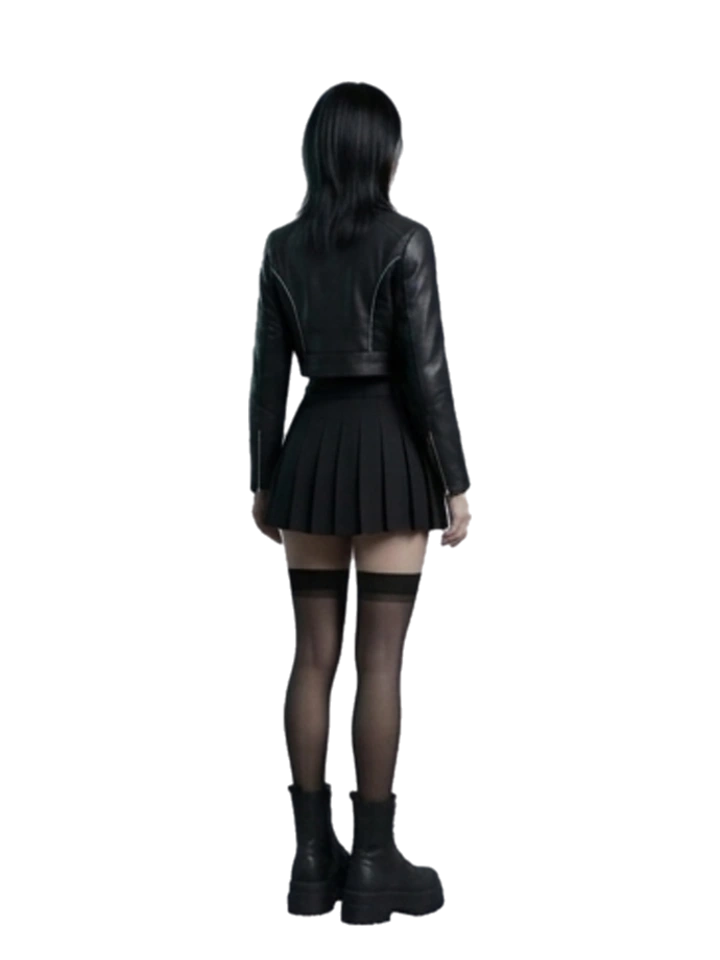
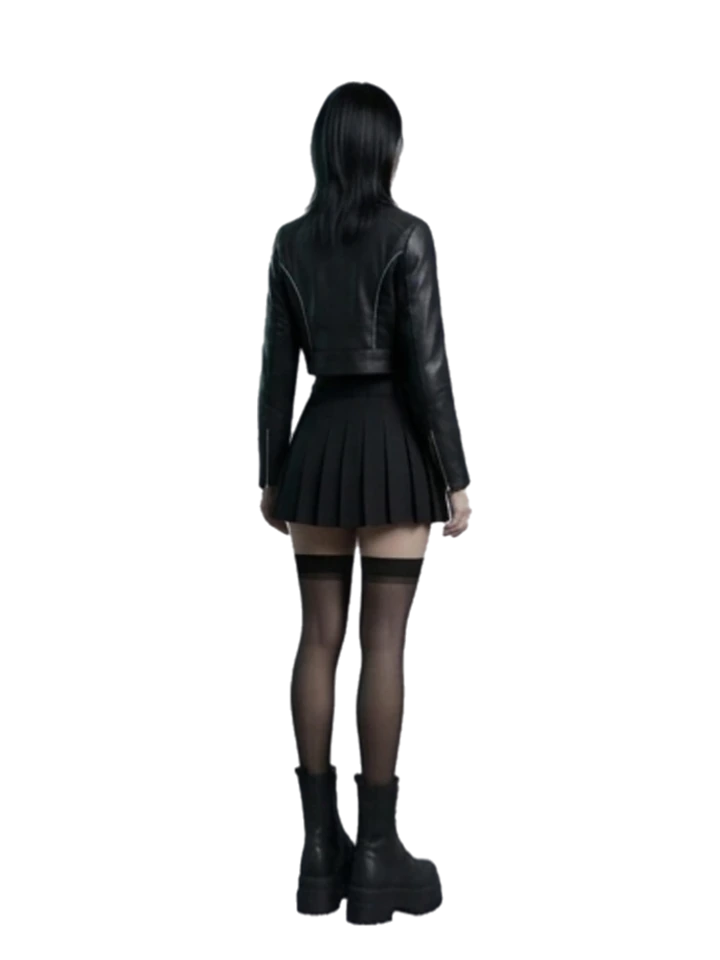
fix(vton): unify 8-angle turnaround proportions on showcase demo model slices

diff --git a/tests/unit/demoVtonAccount.test.ts b/tests/unit/demoVtonAccount.test.ts
@@ -1,4 +1,6 @@
 import assert from 'node:assert/strict';
+import fs from 'node:fs';
+import path from 'node:path';
 import { describe, it } from 'node:test';
 import { isDemoVtonAccount } from '../../src/utils/api.ts';
 import {
@@ -74,15 +76,27 @@ describe('Cyberpunk Female Demo Showcase Defaults', () => {
     assert.deepEqual(base.unlockedIds, ['c_studio_minimal']);
   });
 
-  it('resolves high-resolution female cyber-couture turnaround sheet and 8 pre-matted transparent WebP slices', () => {
+  it('resolves high-resolution female cyber-couture turnaround sheet and 8 proportion-unified 720x960 RGBA WebP slices', () => {
     const stylizedUrl = getShowcaseDemoSheetUrl('stylized_isometric');
     const photorealUrl = getShowcaseDemoSheetUrl('photorealistic');
     assert.match(stylizedUrl, /vton-showcase-3x2-cyber-female\.jpg/);
     assert.match(photorealUrl, /vton-showcase-3x2-cyber-female\.jpg/);
 
     const slices = getShowcaseDemoSliceUrls();
+    const seedDir = path.resolve(import.meta.dirname, '../../public/seed');
     for (const deg of [0, 45, 90, 135, 180, 225, 270, 315] as const) {
-      assert.match(slices[deg], new RegExp(`demo-cyber-female-${deg}\\.webp(\\?v=[a-z0-9]+)?$`));
+      assert.match(slices[deg], new RegExp(`demo-cyber-female-${deg}\\.webp\\?v=4$`));
+      const diskPath = path.join(seedDir, `demo-cyber-female-${deg}.webp`);
+      assert.ok(fs.existsSync(diskPath), `Missing demo slice on disk: ${diskPath}`);
+      const buf = fs.readFileSync(diskPath);
+      assert.equal(buf.toString('ascii', 0, 4), 'RIFF');
+      assert.equal(buf.toString('ascii', 8, 12), 'WEBP');
+      assert.equal(buf.toString('ascii', 12, 16), 'VP8X');
+      assert.ok((buf[20] & 0x10) !== 0, `Slice ${deg}deg must carry WebP alpha channel`);
+      const width = 1 + (buf[24] | (buf[25] << 8) | (buf[26] << 16));
+      const height = 1 + (buf[27] | (buf[28] << 8) | (buf[29] << 16));
+      assert.equal(width, 720, `Slice ${deg}deg width must be 720`);
+      assert.equal(height, 960, `Slice ${deg}deg height must be 960`);
     }
   });
 });

diff --git a/src/services/vton2DService.ts b/src/services/vton2DService.ts
@@ -5342,14 +5342,14 @@ export function getShowcaseDemoSheetUrl(rawStyleMode?: string | null): string {
 
 export function getShowcaseDemoSliceUrls(): Record<TurnaroundAngleDeg, string> {
   return {
-    0: withPublicBaseUrl('/seed/demo-cyber-female-0.webp?v=3'),
-    45: withPublicBaseUrl('/seed/demo-cyber-female-45.webp?v=3'),
-    90: withPublicBaseUrl('/seed/demo-cyber-female-90.webp?v=3'),
-    135: withPublicBaseUrl('/seed/demo-cyber-female-135.webp?v=3'),
-    180: withPublicBaseUrl('/seed/demo-cyber-female-180.webp?v=3'),
-    225: withPublicBaseUrl('/seed/demo-cyber-female-225.webp?v=3'),
-    270: withPublicBaseUrl('/seed/demo-cyber-female-270.webp?v=3'),
-    315: withPublicBaseUrl('/seed/demo-cyber-female-315.webp?v=3'),
+    0: withPublicBaseUrl('/seed/demo-cyber-female-0.webp?v=4'),
+    45: withPublicBaseUrl('/seed/demo-cyber-female-45.webp?v=4'),
+    90: withPublicBaseUrl('/seed/demo-cyber-female-90.webp?v=4'),
+    135: withPublicBaseUrl('/seed/demo-cyber-female-135.webp?v=4'),
+    180: withPublicBaseUrl('/seed/demo-cyber-female-180.webp?v=4'),
+    225: withPublicBaseUrl('/seed/demo-cyber-female-225.webp?v=4'),
+    270: withPublicBaseUrl('/seed/demo-cyber-female-270.webp?v=4'),
+    315: withPublicBaseUrl('/seed/demo-cyber-female-315.webp?v=4'),
   };
 }
 
